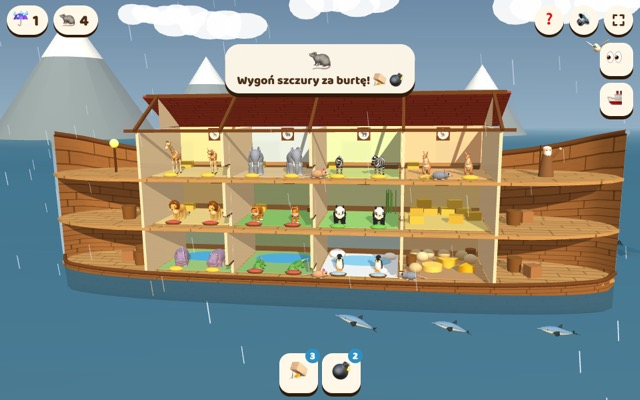
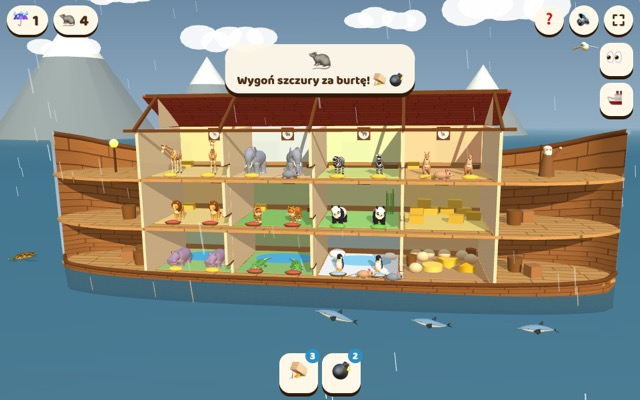
zwierzeta: jeden moduł ZOO dla pralni i arki
Arka miała kopię modeli z pralni różniącą się tylko skalą i polami stanu.
Teraz models/zwierzeta.js (samodzielny, własne helpery) — gotowy do
użycia też w taxi i żniwach, gdzie helpery mają te same nazwy.

diff --git a/models/zwierzeta.js b/models/zwierzeta.js
@@ -1,6 +1,48 @@
-// zwierzeta — wspólne dla: pralnia
-// wymaga z gry: FOOT, G, MV, PI, T, W, crScute, crTL, crTU, giMat, lgC, liTuft, liWh, mK, mW, mesh, texGir, texTig, texZeb, tiMat, whG, zeMat
+// Zwierzęta „słodziaki” (z Pralni Zoo) — samodzielny moduł z własnymi helperami, działa w każdej grze z three.js.
+// ZOO.MK.elephant() → a = {root, body, head, legs, ears, …} (głowa w +x); ZOO.anim(a, dt) animuje (a.moving = idzie).
+// ZOO.cfg: scale (skala wszystkich), cast (cienie; false = tylko bryły ciała).
+const ZOO = (() => {
 'use strict';
+const T=THREE,PI=Math.PI,cfg={scale:1,cast:true};
+const rnd=(a=1,b)=>b===undefined?Math.random()*a:a+Math.random()*(b-a);
+const pick=a=>a[Math.random()*a.length|0];
+const V=(x=0,y=0,z=0)=>new T.Vector3(x,y,z);
+function canvasTex(w,h,draw,o){o=o||{};try{const cv=document.createElement('canvas');cv.width=w;cv.height=h;const g=cv.getContext('2d');if(!g)return null;draw(g,w,h);const t=new T.CanvasTexture(cv);if(o.repeat){t.wrapS=t.wrapT=T.RepeatWrapping;t.repeat.set(o.repeat[0],o.repeat[1]);}t.anisotropy=4;return t;}catch(e){return null;}}
+function M(c,o){const k=c+(o?JSON.stringify(o):'');return mats[k]||(mats[k]=new T.MeshStandardMaterial(Object.assign({color:c,roughness:.78,metalness:0},o||{})));}
+function MT(tex,fallback,o){return new T.MeshStandardMaterial(Object.assign({color:tex?0xffffff:fallback,map:tex,roughness:.8},o||{}));}
+function cg(rt,rb,h,seg){seg=seg||14;const k=rt+','+rb+','+h+','+seg;return cgC[k]||(cgC[k]=new T.CylinderGeometry(rt,rb,h,seg));}
+const ball=(m,par,x,y,z,sx,sy,sz)=>mesh(G.sph,m,par,x,y,z,sx,sy,sz);
+const box=(m,par,x,y,z,sx,sy,sz)=>mesh(G.box,m,par,x,y,z,sx,sy,sz);
+function grp(par,x,y,z){const g=new T.Group();g.position.set(x||0,y||0,z||0);if(par)par.add(g);return g;}
+function merge(parts){const pos=[],nor=[],uv=[],m=new T.Matrix4(),q=new T.Quaternion(),e=new T.Euler(),nm=new T.Matrix3(),v=V();
+  for(const p of parts){const g=p.g.index?p.g.toNonIndexed():p.g;const r=p.r||[0,0,0];e.set(r[0],r[1],r[2]);q.setFromEuler(e);const s=p.s===undefined?[1,1,1]:(typeof p.s==='number'?[p.s,p.s,p.s]:p.s);const t=p.p||[0,0,0];
+    m.compose(V(t[0],t[1],t[2]),q,V(s[0],s[1],s[2]));nm.getNormalMatrix(m);const P=g.attributes.position,N=g.attributes.normal,U=g.attributes.uv;
+    for(let i=0;i<P.count;i++){v.fromBufferAttribute(P,i).applyMatrix4(m);pos.push(v.x,v.y,v.z);v.fromBufferAttribute(N,i).applyMatrix3(nm).normalize();nor.push(v.x,v.y,v.z);if(U)uv.push(U.getX(i),U.getY(i));else uv.push(0,0);}}
+  const out=new T.BufferGeometry();out.setAttribute('position',new T.Float32BufferAttribute(pos,3));out.setAttribute('normal',new T.Float32BufferAttribute(nor,3));out.setAttribute('uv',new T.Float32BufferAttribute(uv,2));return out;}
+function flat(key,pts,depth,bev,poly){if(lgC[key])return lgC[key];const sh=new T.Shape();sh.moveTo(pts[0][0],pts[0][1]);if(poly){for(let i=1;i<pts.length;i++)sh.lineTo(pts[i][0],pts[i][1]);sh.closePath();}else sh.splineThru(pts.slice(1).concat([pts[0]]).map(p=>new T.Vector2(p[0],p[1])));
+  const g=new T.ExtrudeGeometry(sh,{depth,bevelEnabled:!!bev,bevelThickness:bev||0,bevelSize:bev||0,bevelSegments:2,curveSegments:10});g.translate(0,0,-depth/2);return lgC[key]=g;}
+function mergeC(parts){const g=merge(parts),col=[];for(const p of parts){const n=p.g.index?p.g.index.count:p.g.attributes.position.count,c=new T.Color(p.c);for(let i=0;i<n;i++)col.push(c.r,c.g,c.b);}g.setAttribute('color',new T.Float32BufferAttribute(col,3));return g;}
+const mats={};
+const G={sph:new T.SphereGeometry(1,22,16),lo:new T.SphereGeometry(1,10,8),box:new T.BoxGeometry(1,1,1),cone:new T.ConeGeometry(1,1,14)};
+G.sphX=new T.SphereGeometry(1,22,16);G.sphX.rotateZ(PI/2);
+const cgC={};
+function mesh(g,m,par,x,y,z,sx,sy,sz){const o=new T.Mesh(g,m);o.position.set(x||0,y||0,z||0);if(sx!==undefined)o.scale.set(sx,sy===undefined?sx:sy,sz===undefined?sx:sz);o.castShadow=cfg.cast;if(par)par.add(o);return o;}
+const texGir=canvasTex(256,256,(g,w,h)=>{g.fillStyle='#f7e3b1';g.fillRect(0,0,w,h);g.fillStyle='#b8672a';for(let gy=0;gy<6;gy++)for(let gx=0;gx<6;gx++){const cx=(gx+.5+(gy%2?.5:0))*w/6+rnd(-5,5),cy=(gy+.5)*h/6+rnd(-5,5);g.beginPath();for(let i=0;i<7;i++){const an=i/7*6.283+rnd(-.25,.25),r=rnd(13,18);const px=cx+Math.cos(an)*r,py=cy+Math.sin(an)*r;i?g.lineTo(px,py):g.moveTo(px,py);}g.closePath();g.fill();}},{repeat:[1,1]});
+const texZeb=canvasTex(256,256,(g,w,h)=>{g.fillStyle='#fbfbfb';g.fillRect(0,0,w,h);g.fillStyle='#1d1d24';for(let i=0;i<8;i++){const y0=i*h/8;g.beginPath();g.moveTo(0,y0+3);for(let x=0;x<=w;x+=16)g.lineTo(x,y0+3+Math.sin(x/w*6.283*2+i)*4);for(let x=w;x>=0;x-=16)g.lineTo(x,y0+h/16+5+Math.sin(x/w*6.283*3+i*2)*3);g.closePath();g.fill();}},{repeat:[1,1]});
+const mW=M(0xffffff,{roughness:.3}),mK=M(0x16161d,{roughness:.3});
+const MV=new T.MeshStandardMaterial({vertexColors:true,roughness:.8});
+const lgC={};
+let giMat=null;
+let zeMat=null;
+let crScute=null,crTU=null,crTL=null;
+let liTuft=null,liWh=null;
+const texTig=canvasTex(256,256,(g,w,h)=>{g.fillStyle='#fff';g.fillRect(0,0,w,h);g.fillStyle='#1b1410';for(let i=0;i<9;i++){const y0=i*h/9;for(let k=0;k<3;k++){const x0=rnd(w),len=rnd(60,150),bend=rnd(-4,4);for(const off of [0,-w]){g.beginPath();g.moveTo(x0+off,y0+6);g.quadraticCurveTo(x0+off+len/2,y0-2+bend,x0+off+len,y0+7);g.quadraticCurveTo(x0+off+len/2,y0+16,x0+off,y0+6);g.fill();}}}},{repeat:[1,1]});
+const FOOT=[[-.15,0],[-.05,.14],[.2,.2],[.42,.17],[.24,.1],[.5,.05],[.28,0],[.5,-.05],[.24,-.1],[.42,-.17],[.2,-.2],[-.05,-.14]];
+let whG=null;
+let tiMat=null;
+const LEGS4=(fx,bx,z)=>[[fx,z,0],[fx,-z,PI],[bx,z,PI],[bx,-z,0]];
+function legs(a,b,pos,y,build){for(const [x,z,ph] of pos){const p=grp(b,x,y,z);build(p,Math.sign(z),x>0);a.legs.push({p,ph});}}
+
 function loft(key,secs,top,belly,o){if(lgC[key])return lgC[key];o=o||{};const sub=o.sub||4,seg=o.seg||16,n=secs.length,us=o.uvs||[1,1];
   const val=(s,j)=>j===4?(s[4]===undefined?s[2]:s[4]):s[j];
   const cr=(a,b,c,d,t)=>.5*(2*b+(c-a)*t+(2*a-5*b+4*c-d)*t*t+(3*b-a-3*c+d)*t*t*t);
@@ -16,12 +58,12 @@ function loft(key,secs,top,belly,o){if(lgC[key])return lgC[key];o=o||{};const su
   const g=new T.BufferGeometry();g.setAttribute('position',new T.Float32BufferAttribute(pos,3));g.setAttribute('uv',new T.Float32BufferAttribute(uv,2));g.setAttribute('color',new T.Float32BufferAttribute(col,3));g.setIndex(idx);g.computeVertexNormals();
   const nn=g.attributes.normal;for(let i=0;i<N;i++){const a=i*R,b=a+seg,x=nn.getX(a)+nn.getX(b),y=nn.getY(a)+nn.getY(b),z=nn.getZ(a)+nn.getZ(b),l=Math.hypot(x,y,z)||1;nn.setXYZ(a,x/l,y/l,z/l);nn.setXYZ(b,x/l,y/l,z/l);}
   return lgC[key]=g;}
-function base(type){const root=new T.Group(),body=grp(root);return {type,root,body,legs:[],ears:[],eyes:[],trunk:[],ctail:[],spots:[],t:rnd(10),ph:0,seed:rnd(6),gait:9,swing:.45,jumpT:0,tickle:0,blown:0,blowT:0,open:0,blink:rnd(1,4),patience:1,state:'new',st:-1,done:0,hatPop:1,headBase:0};}
+function base(type){const root=new T.Group(),body=grp(root);return {type,root,body,legs:[],ears:[],eyes:[],trunk:[],ctail:[],spots:[],t:rnd(10),ph:0,seed:rnd(6),gait:9,swing:.45,jumpT:0,tickle:0,blown:0,blowT:0,open:0,blink:rnd(1,4),patience:1,state:'new',st:-1,done:0,hatPop:1,headBase:0,moving:false,eat:false,eatK:0,lookA:.12};}
 function eye(a,par,x,y,z,r,o){o=o||{};const s=Math.sign(z)||1,g=grp(par,x,y,z);ball(o.col?M(o.col,{roughness:.3}):mW,g,0,0,0,r);const pz=s*r*.55,px=r*.5;
   if(o.slit)box(mK,g,px*1.3,0,pz*1.25,r*.3,r*1.3,r*.45);else{ball(mK,g,px,0,pz,r*.62);ball(mW,g,px+r*.32,r*.3,pz+s*r*.36,r*.2);}
   if(o.lash)for(let i=0;i<3;i++){const l=mesh(cg(.014,.014,r*1.1,5),mK,g,-r*.25+i*r*.45,r*1.05,s*r*.55);l.rotation.z=.5-i*.5;l.rotation.x=s*.5;}
   g.traverse(q=>{q.userData.nd=1;});a.eyes.push(g);return g;}
-function finish(a,s){a.root.scale.setScalar(s);a.root.updateMatrixWorld(true);const b=new T.Box3().setFromObject(a.root);a.dims={x0:b.min.x,x1:b.max.x,h:b.max.y,hw:b.max.z,len:b.max.x-b.min.x};a.cx=(b.min.x+b.max.x)/2;a.hit=[];a.root.traverse(o=>{if(o.isMesh&&!o.userData.nd)a.hit.push(o);});return a;}
+function finish(a,s){a.root.scale.setScalar(s*cfg.scale);a.root.updateMatrixWorld(true);const b=new T.Box3().setFromObject(a.root);a.dims={x0:b.min.x,x1:b.max.x,h:b.max.y,hw:b.max.z,len:b.max.x-b.min.x};a.cx=(b.min.x+b.max.x)/2;a.hit=[];a.root.traverse(o=>{if(!o.isMesh)return;if(!o.userData.nd)a.hit.push(o);if(!cfg.cast)o.castShadow=!!o.material.vertexColors;});return a;}
 function mkElephant(){const a=base('elephant'),C=0x93a0b8,Cb=0xaab6ca,sk=M(C,{roughness:.8}),dk=M(0x7b88a0),pk=M(0xf0b3c0),nl=M(0xe6ebf2),b=a.body;
   mesh(loft('elB',[[-1.95,2.15,.05,.05],[-1.8,2.2,.75,.7],[-1.2,2.3,1.05,1.0,1.1],[-.3,2.3,1.1,1.1,1.25],[.6,2.35,1.1,1.05,1.15],[1.2,2.45,.95,.9,.95],[1.6,2.5,.6,.6],[1.75,2.5,.05,.05]],C,Cb),MV,b);
   const lg=loft('elL',[[0,.3,.05,.05],[0,.1,.5,.45],[0,-.5,.42,.4],[0,-1.0,.36,.36],[0,-1.4,.4,.4],[0,-1.58,.44,.44],[0,-1.62,.05,.05]],C);
@@ -143,3 +185,22 @@ function mkKangaroo(){const a=base('kangaroo'),C=0xc98a55,Cl=0xf3dcc0,tn=M(C,{ro
   const eg=flat('kaE',[[0,0],[.14,.25],[.04,.6],[-.12,.28]],.05,.02);
   for(const s of [1,-1]){const e=grp(h,-.12,.26,s*.17);e.rotation.x=s*.3;mesh(eg,tn,e);mesh(eg,lt,e,.02,.03,-s*.02,.6,.7,.6);a.ears.push({p:e,base:0,bx:s*.3,s,ax:'x',fast:5});eye(a,h,.2,.12,s*.22,.08,{lash:1});}
   a.hopH=.4;a.hat=grp(h,-.02,.4,0);a.hatS=.6;a.gait=7;a.swing=.3;return finish(a,.85);}
+
+// Wspólna animacja: nogi (a.moving), oddech, ogon, uszy, głowa, mruganie, pysk, trąba. a.eat: skubie trawę; a.blowT: suszarka; a.state 'work'/'done': myjnia
+function anim(a,dt){a.t+=dt;const walk=a.moving&&!a.slide;if(walk)a.ph+=dt*a.gait;
+  for(const L of a.legs){const tg=walk?Math.sin(a.ph+L.ph)*a.swing:0;L.p.rotation.z+=(tg-L.p.rotation.z)*Math.min(1,dt*14);}
+  a.tickle=Math.max(0,a.tickle-dt*2.5);a.blowT-=dt;a.blown+=((a.blowT>0?1:0)-a.blown)*Math.min(1,dt*5);
+  let y=walk?Math.abs(Math.sin(a.ph))*(a.hopH||.05):Math.sin(a.t*2.2)*.015;const happy=a.jumpT>0;if(happy){a.jumpT-=dt*1.1;y+=Math.abs(Math.sin(a.jumpT*PI*2))*.5;}
+  a.body.position.y=y;a.body.rotation.x=Math.sin(a.t*28)*.035*a.tickle+a.blown*.06+(walk&&a.waddle?Math.sin(a.ph)*a.waddle:0);a.body.rotation.z=Math.sin(a.t*23)*.02*a.tickle;
+  const wag=(a.state==='done'||happy)?2.2:1;if(a.tail)a.tail.rotation.x=Math.sin(a.t*5*wag+a.seed)*.35*wag+a.blown*Math.sin(a.t*30)*.5;
+  for(const e of a.ears){const f=Math.sin(a.t*(e.fast||3)+a.seed+e.s)*.12+a.blown*Math.sin(a.t*26+e.s)*.4+a.tickle*.2;if(e.ax==='x')e.p.rotation.x=(e.bx||0)+e.s*f*1.2;else e.p.rotation.y=e.base+e.s*f;}
+  a.eatK+=((a.eat&&!walk&&!happy?1:0)-a.eatK)*Math.min(1,dt*3);const ek=a.eatK*(.75+.25*Math.sin(a.t*5+a.seed));
+  if(a.head){a.head.rotation.z=a.headBase+Math.sin(a.t*1.3+a.seed)*.04+(happy?.15:0)-ek*(a.neck?.25:.45);const look=a.state==='work'?-.28:0;a.head.rotation.y+=(look+Math.sin(a.t*.7+a.seed)*a.lookA-a.head.rotation.y)*Math.min(1,dt*4);a.head.rotation.x=Math.sin(a.t*25)*.05*a.tickle;}
+  if(a.neck)a.neck.rotation.z=a.neckBase+Math.sin(a.t*.9+a.seed)*.04+a.blown*.08-ek*(a.type==='giraffe'?1.05:.55);
+  a.blink-=dt;if(a.blink<-.12)a.blink=rnd(2,5);const by=(a.blink<0||a.tickle>.6)?.15:1;for(const e of a.eyes)e.scale.y=by;
+  const op=happy?1:(a.tickle>.3?.6:(Math.sin(a.t*.5+a.seed)>.93?.8:0));a.open+=(op-a.open)*Math.min(1,dt*8);if(a.jaw)a.jaw.rotation.z=-a.open*.55;
+  for(let i=0;i<a.trunk.length;i++){const g=a.trunk[i],lift=happy?(i===0?.5:i<5?.38:.1):0;g.rotation.z+=(g.userData.b+lift+Math.sin(a.t*1.8+i*.5)*.05+a.tickle*Math.sin(a.t*20+i)*.04-g.rotation.z)*Math.min(1,dt*8);}
+  for(let i=0;i<a.ctail.length;i++)a.ctail[i].rotation.y=Math.sin(a.t*2.2-i*.6)*.13*(walk?1.6:1)*(happy?2:1);}
+const MK={elephant:mkElephant,giraffe:mkGiraffe,zebra:mkZebra,hippo:mkHippo,crocodile:mkCroc,lion:mkLion,tiger:mkTiger,panda:mkPanda,penguin:mkPenguin,kangaroo:mkKangaroo};
+return {cfg,MK,anim,rnd,pick,V,canvasTex,M,MT,cg,G,mesh,ball,box,grp,merge,flat,mergeC,mW,mK,MV,texGir,texZeb,texTig};
+})();

diff --git a/arka/game.js b/arka/game.js
@@ -1,5 +1,8 @@
 'use strict';
 const T=THREE,$=id=>document.getElementById(id);
+// zwierzęta i helpery 3D: models/zwierzeta.js (arka: mniejsze, cienie tylko brył ciała)
+const {rnd,pick,V,canvasTex,M,MT,cg,G,mesh,ball,box,grp,merge,flat,mergeC,mW,mK,MV,MK}=ZOO;
+ZOO.cfg.scale=.78;ZOO.cfg.cast=false;
 
 const PI=Math.PI;
 let W=innerWidth,H=innerHeight;
@@ -17,18 +20,10 @@ const skyTex=cols=>canvasTex(8,256,(g,w,h)=>{const gr=g.createLinearGradient(0,0
 const SKY={sun:skyTex(['#3fa9ea','#9adcf8','#e8f8ff']),rain:skyTex(['#6d8ba6','#a9c3d3','#d5e3ea'])};
 
 /* ---------- geometry & material helpers ---------- */
-const mats={};
-
-const G={sph:new T.SphereGeometry(1,22,16),lo:new T.SphereGeometry(1,10,8),box:new T.BoxGeometry(1,1,1),cone:new T.ConeGeometry(1,1,14)};
-const cgC={};
-function mesh(g,m,par,x,y,z,sx,sy,sz){const o=new T.Mesh(g,m);o.position.set(x||0,y||0,z||0);if(sx!==undefined)o.scale.set(sx,sy===undefined?sx:sy,sz===undefined?sx:sz);if(par)par.add(o);return o;}
 
 const MVC=new T.MeshStandardMaterial({vertexColors:true,roughness:.8});
 
 /* ---------- textures ---------- */
-const texGir=canvasTex(256,256,(g,w,h)=>{g.fillStyle='#f7e3b1';g.fillRect(0,0,w,h);g.fillStyle='#b8672a';for(let gy=0;gy<6;gy++)for(let gx=0;gx<6;gx++){const cx=(gx+.5+(gy%2?.5:0))*w/6+rnd(-5,5),cy=(gy+.5)*h/6+rnd(-5,5);g.beginPath();for(let i=0;i<7;i++){const an=i/7*6.283+rnd(-.25,.25),r=rnd(13,18);const px=cx+Math.cos(an)*r,py=cy+Math.sin(an)*r;i?g.lineTo(px,py):g.moveTo(px,py);}g.closePath();g.fill();}},{repeat:[1,1]});
-const texZeb=canvasTex(256,256,(g,w,h)=>{g.fillStyle='#fbfbfb';g.fillRect(0,0,w,h);g.fillStyle='#1d1d24';for(let i=0;i<8;i++){const y0=i*h/8;g.beginPath();g.moveTo(0,y0+3);for(let x=0;x<=w;x+=16)g.lineTo(x,y0+3+Math.sin(x/w*6.283*2+i)*4);for(let x=w;x>=0;x-=16)g.lineTo(x,y0+h/16+5+Math.sin(x/w*6.283*3+i*2)*3);g.closePath();g.fill();}},{repeat:[1,1]});
-const texTig=canvasTex(256,256,(g,w,h)=>{g.fillStyle='#fff';g.fillRect(0,0,w,h);g.fillStyle='#1b1410';for(let i=0;i<9;i++){const y0=i*h/9;for(let k=0;k<3;k++){const x0=rnd(w),len=rnd(60,150),bend=rnd(-4,4);for(const off of [0,-w]){g.beginPath();g.moveTo(x0+off,y0+6);g.quadraticCurveTo(x0+off+len/2,y0-2+bend,x0+off+len,y0+7);g.quadraticCurveTo(x0+off+len/2,y0+16,x0+off,y0+6);g.fill();}}}},{repeat:[1,1]});
 const plankTex=(base,line,rep)=>canvasTex(256,256,(g,w,h)=>{g.fillStyle=base;g.fillRect(0,0,w,h);for(let i=0;i<8;i++){g.fillStyle='rgba(60,30,5,'+rnd(.02,.14)+')';g.fillRect(0,i*32,w,32);g.fillStyle=line;g.fillRect(0,i*32,w,3);const x=rnd(w);g.fillRect(x,i*32,3,32);g.fillRect((x+130)%w,i*32,3,32);}for(let i=0;i<60;i++){g.fillStyle='rgba(50,25,5,.12)';g.fillRect(rnd(w),rnd(h),rnd(20,60),1.5);}},{repeat:rep});
 const emojiTex=(em,bg)=>canvasTex(128,128,(g)=>{g.fillStyle=bg;g.beginPath();g.arc(64,64,62,0,7);g.fill();g.lineWidth=7;g.strokeStyle='#fff';g.stroke();g.textAlign='center';g.textBaseline='middle';g.font='74px serif';g.fillText(em,64,70);});
 
@@ -107,39 +102,13 @@ function startMusic(){const step=60/104/3;let nt=AC.currentTime+.1,i=0;
       i++;nt+=step;}},120);}
 
 /* ---------- animals (models from Pralnia Zoo) ---------- */
-const mW=M(0xffffff,{roughness:.3}),mK=M(0x16161d,{roughness:.3});
-const MV=new T.MeshStandardMaterial({vertexColors:true,roughness:.8});
-const lgC={};
 
-const SC=.78;
-
-let giMat=null;
-
-let zeMat=null;
-
-let crScute=null,crTU=null,crTL=null;
-
-let liTuft=null,liWh=null;
-
-let whG=null;
-const FOOT=[[-.15,0],[-.05,.14],[.2,.2],[.42,.17],[.24,.1],[.5,.05],[.28,0],[.5,-.05],[.24,-.1],[.42,-.17],[.2,-.2],[-.05,-.14]];
-let tiMat=null;
-
-const MK={elephant:mkElephant,giraffe:mkGiraffe,zebra:mkZebra,hippo:mkHippo,crocodile:mkCroc,lion:mkLion,tiger:mkTiger,panda:mkPanda,penguin:mkPenguin,kangaroo:mkKangaroo};
-function anim(a,dt){a.t+=dt;const walk=a.moving;if(walk)a.ph+=dt*a.gait;
-  for(const L of a.legs){const tg=walk?Math.sin(a.ph+L.ph)*a.swing:0;L.p.rotation.z+=(tg-L.p.rotation.z)*Math.min(1,dt*14);}
-  a.tickle=Math.max(0,a.tickle-dt*2.5);
-  let y=walk?Math.abs(Math.sin(a.ph))*(a.hopH||.05):Math.sin(a.t*2.2)*.015;const happy=a.jumpT>0;if(happy){a.jumpT-=dt*1.1;y+=Math.abs(Math.sin(a.jumpT*PI*2))*.5;}
-  a.body.position.y=y;a.body.rotation.x=Math.sin(a.t*28)*.035*a.tickle+(walk&&a.waddle?Math.sin(a.ph)*a.waddle:0);a.body.rotation.z=Math.sin(a.t*23)*.02*a.tickle;
-  const wag=happy?2.2:1;if(a.tail)a.tail.rotation.x=Math.sin(a.t*5*wag+a.seed)*.35*wag;
-  for(const e of a.ears){const f=Math.sin(a.t*(e.fast||3)+a.seed+e.s)*.12+a.tickle*.2;if(e.ax==='x')e.p.rotation.x=(e.bx||0)+e.s*f*1.2;else e.p.rotation.y=e.base+e.s*f;}
-  a.eatK+=((a.eat&&!walk&&!happy?1:0)-a.eatK)*Math.min(1,dt*3);const ek=a.eatK*(.75+.25*Math.sin(a.t*5+a.seed));
-  if(a.head){a.head.rotation.z=a.headBase+Math.sin(a.t*1.3+a.seed)*.04+(happy?.15:0)-ek*(a.neck?.25:.45);a.head.rotation.y+=(Math.sin(a.t*.7+a.seed)*.25-a.head.rotation.y)*Math.min(1,dt*4);a.head.rotation.x=Math.sin(a.t*25)*.05*a.tickle;}
-  if(a.neck)a.neck.rotation.z=a.neckBase+Math.sin(a.t*.9+a.seed)*.04-ek*(a.type==='giraffe'?1.05:.55);
-  a.blink-=dt;if(a.blink<-.12)a.blink=rnd(2,5);const by=(a.blink<0||a.tickle>.6)?.15:1;for(const e of a.eyes)e.scale.y=by;
-  const op=happy?1:(a.tickle>.3?.6:(Math.sin(a.t*.5+a.seed)>.93?.8:0));a.open+=(op-a.open)*Math.min(1,dt*8);if(a.jaw)a.jaw.rotation.z=-a.open*.55;
-  for(let i=0;i<a.trunk.length;i++){const g=a.trunk[i],lift=happy?(i===0?.5:i<5?.38:.1):0;g.rotation.z+=(g.userData.b+lift+Math.sin(a.t*1.8+i*.5)*.05+a.tickle*Math.sin(a.t*20+i)*.04-g.rotation.z)*Math.min(1,dt*8);}
-  for(let i=0;i<a.ctail.length;i++)a.ctail[i].rotation.y=Math.sin(a.t*2.2-i*.6)*.13*(walk?1.6:1)*(happy?2:1);}
+const anim=ZOO.anim;
+// szczur (tylko arka): kolorowana bryła z kul i stożków
+function ratGeo(body,snout,bow){const p=[{g:G.lo,p:[0,.36,0],s:[.58,.36,.36],c:body},{g:G.lo,p:[.56,.42,0],s:[.31,.28,.27],c:body},{g:G.cone,p:[.9,.38,0],s:[.15,.3,.15],r:[0,0,-PI/2],c:snout},{g:G.lo,p:[1.06,.38,0],s:.07,c:0xff6f91},{g:cg(.045,.02,1,5),p:[-.95,.3,0],r:[0,0,PI/2+.25],c:PINK}];
+  for(const s of [1,-1]){p.push({g:G.lo,p:[.46,.7,s*.22],s:[.06,.19,.19],c:PINK},{g:G.lo,p:[.74,.52,s*.18],s:.06,c:0x111111},{g:G.lo,p:[.3,.07,s*.24],s:[.13,.07,.09],c:PINK},{g:G.lo,p:[-.3,.07,s*.24],s:[.13,.07,.09],c:PINK});
+    if(bow)p.push({g:G.cone,p:[.5,.78,s*.12],s:[.13,.24,.1],r:[s*PI/2,0,0],c:0xff3d8b});}
+  return mergeC(p);}
 
 /* ---------- layout: side cross-section, 3 floors x 4 rooms ---------- */
 const NF=3,NR=4,RW=9,RH=5.2,NC=24,CW=1.5,X0=-18,LZ=4.6,WATER=-.7;
@@ -234,7 +203,7 @@ function buildWorld(){
       else if(type==='hay'){for(const q of [[-2.8,-4,0],[-1.2,-4.1,0],[-2,-4,1],[2.4,-3.8,0],[3.2,-1.6,0],[.6,-4.2,0],[-3,.8,0],[1.2,.2,0],[1.4,-4,1]])fp.push({g:G.box,p:[x+q[0],y+.5+q[2]*.9,q[1]],s:[1.5,.9,1],r:[0,rnd(-.2,.2),0],c:pick([0xe9c84c,0xdcb93e])});}
       else{fp.push({g:G.box,p:[x+3.2,y+.3,-4.6],s:[1.6,.5,.7],c:0x8a5a2b});fp.push({g:G.box,p:[x+3.2,y+.52,-4.6],s:[1.4,.1,.5],c:0x5cc6ff});fp.push({g:G.box,p:[x-3.3,y+.45,-4.5],s:[1.3,.8,.9],c:0xe9c84c});}
       const tx=emojiTex(PEN_EM[type],'#fff8e8');mesh(new T.CircleGeometry(.62,24),new T.MeshBasicMaterial({map:tx,color:tx?0xffffff:0xffd23f}),ark,x,y+h-.9,-5.3);fp.push({g:G.box,p:[x,y+h-.9,-5.36],s:[1.5,1.5,.08],c:0x6e4220});
-      if(MK[type])for(const s of [-1,1]){const a=MK[type]();a.room=room;a.hx=x+s*2.1;a.hz=-1.2;a.root.position.set(a.hx,y+.08,FEEDZ);a.face=-PI/2+rnd(-.35,.35);a.root.rotation.y=a.face;{const ft=type==='lion'||type==='tiger'||type==='crocodile'?0xc8554d:type==='penguin'?0x9fc4dc:type==='panda'?0x6fbf55:0xe9c84c;fp.push({g:G.lo,p:[a.hx,y+.12,3.25],s:[.85,.3,.5],c:ft});if(ft!==0xe9c84c&&ft!==0x6fbf55)fp.push({g:cg(.95,.8,.2,14),p:[a.hx,y+.1,3.25],s:[1,1,.62],c:0x8a5a2b});}a.tx=a.root.position.x;a.tz=a.root.position.z;ark.add(a.root);room.animals.push(a);zoo.push(a);}
+      if(MK[type])for(const s of [-1,1]){const a=Object.assign(MK[type](),{eat:true,wt:rnd(3,9),lookA:.25});a.room=room;a.hx=x+s*2.1;a.hz=-1.2;a.root.position.set(a.hx,y+.08,FEEDZ);a.face=-PI/2+rnd(-.35,.35);a.root.rotation.y=a.face;{const ft=type==='lion'||type==='tiger'||type==='crocodile'?0xc8554d:type==='penguin'?0x9fc4dc:type==='panda'?0x6fbf55:0xe9c84c;fp.push({g:G.lo,p:[a.hx,y+.12,3.25],s:[.85,.3,.5],c:ft});if(ft!==0xe9c84c&&ft!==0x6fbf55)fp.push({g:cg(.95,.8,.2,14),p:[a.hx,y+.1,3.25],s:[1,1,.62],c:0x8a5a2b});}a.tx=a.root.position.x;a.tz=a.root.position.z;ark.add(a.root);room.animals.push(a);zoo.push(a);}
     }}
   // end compartments + decks
   for(const q of [[-21.5,0,-1],[-20.5,0,1.5],[21,0,-.5],[20.6,RH,0],[-20.8,RH,-1.2],[-21.8,RH,1]])fp.push({g:cg(.8,.7,1.5,12),p:[q[0],q[1]+.75,q[2]],c:0x8a5a2b});

diff --git a/pralnia/game.js b/pralnia/game.js
@@ -1,5 +1,7 @@
 'use strict';
 const T=THREE,$=id=>document.getElementById(id);
+// zwierzęta i helpery 3D: models/zwierzeta.js
+const {rnd,pick,V,canvasTex,M,MT,cg,G,mesh,ball,box,grp,merge,flat,mergeC,mW,mK,MV,MK}=ZOO;
 
 const PI=Math.PI;
 let W=innerWidth,H=innerHeight;
@@ -18,16 +20,8 @@ const camT=new T.PerspectiveCamera(42,1,.5,420);
 scene.background=canvasTex(8,256,(g,w,h)=>{const gr=g.createLinearGradient(0,0,0,h);gr.addColorStop(0,'#4fb7ec');gr.addColorStop(.55,'#a8e4fa');gr.addColorStop(1,'#e6f9ff');g.fillStyle=gr;g.fillRect(0,0,w,h);})||new T.Color(0x9fe3f5);
 
 /* ---------- geometry & material helpers ---------- */
-const mats={};
-
-const G={sph:new T.SphereGeometry(1,22,16),lo:new T.SphereGeometry(1,10,8),box:new T.BoxGeometry(1,1,1),cone:new T.ConeGeometry(1,1,14)};
-G.sphX=new T.SphereGeometry(1,22,16);G.sphX.rotateZ(PI/2);
-const cgC={};
-function mesh(g,m,par,x,y,z,sx,sy,sz){const o=new T.Mesh(g,m);o.position.set(x||0,y||0,z||0);if(sx!==undefined)o.scale.set(sx,sy===undefined?sx:sy,sz===undefined?sx:sz);o.castShadow=true;if(par)par.add(o);return o;}
 
 /* ---------- textures ---------- */
-const texGir=canvasTex(256,256,(g,w,h)=>{g.fillStyle='#f7e3b1';g.fillRect(0,0,w,h);g.fillStyle='#b8672a';for(let gy=0;gy<6;gy++)for(let gx=0;gx<6;gx++){const cx=(gx+.5+(gy%2?.5:0))*w/6+rnd(-5,5),cy=(gy+.5)*h/6+rnd(-5,5);g.beginPath();for(let i=0;i<7;i++){const an=i/7*6.283+rnd(-.25,.25),r=rnd(13,18);const px=cx+Math.cos(an)*r,py=cy+Math.sin(an)*r;i?g.lineTo(px,py):g.moveTo(px,py);}g.closePath();g.fill();}},{repeat:[1,1]});
-const texZeb=canvasTex(256,256,(g,w,h)=>{g.fillStyle='#fbfbfb';g.fillRect(0,0,w,h);g.fillStyle='#1d1d24';for(let i=0;i<8;i++){const y0=i*h/8;g.beginPath();g.moveTo(0,y0+3);for(let x=0;x<=w;x+=16)g.lineTo(x,y0+3+Math.sin(x/w*6.283*2+i)*4);for(let x=w;x>=0;x-=16)g.lineTo(x,y0+h/16+5+Math.sin(x/w*6.283*3+i*2)*3);g.closePath();g.fill();}},{repeat:[1,1]});
 const texCroc=canvasTex(128,128,(g,w,h)=>{g.fillStyle='#63b04d';g.fillRect(0,0,w,h);g.strokeStyle='#4a9340';g.lineWidth=2;for(let y=0;y<9;y++)for(let x=0;x<9;x++){g.beginPath();g.arc(x*16+(y%2?8:0),y*16,7,0,PI);g.stroke();}},{repeat:[4,2]});
 const tileTex=(rx,ry)=>canvasTex(64,64,(g)=>{g.fillStyle='#ffffff';g.fillRect(0,0,64,64);g.fillStyle='#eef4f7';g.fillRect(3,3,58,58);g.strokeStyle='#c4d3dc';g.lineWidth=3;g.strokeRect(0,0,64,64);},{repeat:[rx,ry]});
 const stripeTex=(n)=>canvasTex(64,64,(g)=>{g.fillStyle='#fff';g.fillRect(0,0,64,64);g.fillStyle='#b8b8b8';g.fillRect(0,0,32,64);},{repeat:[n,1]});
@@ -102,27 +96,7 @@ function startMusic(){const step=60/116/2;let nt=AC.currentTime+.1,i=0;
       i++;nt+=step;}},120);}
 
 /* ---------- animals ---------- */
-const mW=M(0xffffff,{roughness:.3}),mK=M(0x16161d,{roughness:.3});
-const MV=new T.MeshStandardMaterial({vertexColors:true,roughness:.8});
-const lgC={};
-// smooth "lofted" body part: sections [x,y,rTop,rSide,rBottom] along a spine in the XY plane
 
-// flat outline (ears, manes) with soft edges
-
-let giMat=null;
-
-let zeMat=null;
-
-let crScute=null,crTU=null,crTL=null;
-
-let liTuft=null,liWh=null;
-
-const texTig=canvasTex(256,256,(g,w,h)=>{g.fillStyle='#fff';g.fillRect(0,0,w,h);g.fillStyle='#1b1410';for(let i=0;i<9;i++){const y0=i*h/9;for(let k=0;k<3;k++){const x0=rnd(w),len=rnd(60,150),bend=rnd(-4,4);for(const off of [0,-w]){g.beginPath();g.moveTo(x0+off,y0+6);g.quadraticCurveTo(x0+off+len/2,y0-2+bend,x0+off+len,y0+7);g.quadraticCurveTo(x0+off+len/2,y0+16,x0+off,y0+6);g.fill();}}}},{repeat:[1,1]});
-const FOOT=[[-.15,0],[-.05,.14],[.2,.2],[.42,.17],[.24,.1],[.5,.05],[.28,0],[.5,-.05],[.24,-.1],[.42,-.17],[.2,-.2],[-.05,-.14]];
-let whG=null;
-let tiMat=null;
-
-const MK={elephant:mkElephant,giraffe:mkGiraffe,zebra:mkZebra,hippo:mkHippo,crocodile:mkCroc,lion:mkLion,tiger:mkTiger,panda:mkPanda,penguin:mkPenguin,kangaroo:mkKangaroo};
 const TYPES=Object.keys(MK),VAL={elephant:6,giraffe:6,hippo:5,zebra:4,lion:4,crocodile:4,tiger:5,panda:5,penguin:3,kangaroo:5},NSP={elephant:10,giraffe:9,hippo:9,zebra:8,lion:8,crocodile:7,tiger:8,panda:8,penguin:6,kangaroo:8};
 
 /* ---------- spots (flat dirt, drops, stars) ---------- */
@@ -325,19 +299,8 @@ function machine(st,a,run,dt){const len=a?a.dims.len:4,hw=a?a.dims.hw:1.6,hh=a?a
       if(run&&Math.random()<dt*14){ar.tool.getWorldPosition(tv);if(s>0)P.puff.add(tv.x,tv.y,tv.z,rnd(-2.5,-.5),rnd(-1,.5),rnd(.5,2),rnd(.2,.35),.8,0);else P.spark.add(tv.x,tv.y,tv.z,rnd(-1,1),rnd(.5,2),rnd(-1,1),.09,.5,-3);}}
     if(run){a.tickle=Math.max(a.tickle,.3);if(Math.random()<dt*10)P.spark.add(st.x+rnd(-len/2,len/2),rnd(.5,hh+.5),rnd(-hw,hw+.3),0,rnd(.3,1.2),0,.1,.7,0);}}
 }
-function anim(a,dt){a.t+=dt;const walk=a.moving&&!a.slide;if(walk)a.ph+=dt*a.gait;
-  for(const L of a.legs){const tg=walk?Math.sin(a.ph+L.ph)*a.swing:0;L.p.rotation.z+=(tg-L.p.rotation.z)*Math.min(1,dt*14);}
-  a.tickle=Math.max(0,a.tickle-dt*2.5);a.blowT-=dt;a.blown+=((a.blowT>0?1:0)-a.blown)*Math.min(1,dt*5);
-  let y=walk?Math.abs(Math.sin(a.ph))*(a.hopH||.05):Math.sin(a.t*2.2)*.015;const happy=a.jumpT>0;if(happy){a.jumpT-=dt*1.1;y+=Math.abs(Math.sin(a.jumpT*PI*2))*.5;}
-  a.body.position.y=y;a.body.rotation.x=Math.sin(a.t*28)*.035*a.tickle+a.blown*.06+(walk&&a.waddle?Math.sin(a.ph)*a.waddle:0);a.body.rotation.z=Math.sin(a.t*23)*.02*a.tickle;
-  const wag=(a.state==='done'||happy)?2.2:1;if(a.tail)a.tail.rotation.x=Math.sin(a.t*5*wag+a.seed)*.35*wag+a.blown*Math.sin(a.t*30)*.5;
-  for(const e of a.ears){const f=Math.sin(a.t*(e.fast||3)+a.seed+e.s)*.12+a.blown*Math.sin(a.t*26+e.s)*.4+a.tickle*.2;if(e.ax==='x')e.p.rotation.x=(e.bx||0)+e.s*f*1.2;else e.p.rotation.y=e.base+e.s*f;}
-  if(a.head){a.head.rotation.z=a.headBase+Math.sin(a.t*1.3+a.seed)*.04+(happy?.15:0);const look=a.state==='work'?-.28:0;a.head.rotation.y+=(look+Math.sin(a.t*.7+a.seed)*.12-a.head.rotation.y)*Math.min(1,dt*4);a.head.rotation.x=Math.sin(a.t*25)*.05*a.tickle;}
-  if(a.neck)a.neck.rotation.z=a.neckBase+Math.sin(a.t*.9+a.seed)*.04+a.blown*.08;
-  a.blink-=dt;if(a.blink<-.12)a.blink=rnd(2,5);const by=(a.blink<0||a.tickle>.6)?.15:1;for(const e of a.eyes)e.scale.y=by;
-  const op=happy?1:(a.tickle>.3?.6:(Math.sin(a.t*.5+a.seed)>.93?.8:0));a.open+=(op-a.open)*Math.min(1,dt*8);if(a.jaw)a.jaw.rotation.z=-a.open*.55;
-  for(let i=0;i<a.trunk.length;i++){const g=a.trunk[i],lift=happy?(i===0?.5:i<5?.38:.1):0;g.rotation.z+=(g.userData.b+lift+Math.sin(a.t*1.8+i*.5)*.05+a.tickle*Math.sin(a.t*20+i)*.04-g.rotation.z)*Math.min(1,dt*8);}
-  for(let i=0;i<a.ctail.length;i++)a.ctail[i].rotation.y=Math.sin(a.t*2.2-i*.6)*.13*(walk?1.6:1)*(happy?2:1);
+// wspólna animacja (ZOO) + pralnia: muchy, czapka, kapiąca woda
+function anim(a,dt){ZOO.anim(a,dt);
   if(a.flies){const c=a.flies.children;for(let i=0;i<c.length;i++){const an=a.t*(3+i)+i*2;c[i].position.set(Math.cos(an)*(.7+i*.25),Math.sin(an*1.7)*.3,Math.sin(an)*(.5+i*.2));}}
   if(a.hatM&&a.hatPop<1){a.hatPop=Math.min(1,a.hatPop+dt*2.5);a.hatM.scale.setScalar(a.hatS*(1+Math.sin(a.hatPop*PI)*.6)*Math.min(1,a.hatPop*3));}
   if(a.wet&&Math.random()<dt*7)P.water.add(a.root.position.x+rnd(a.dims.x0,a.dims.x1),rnd(.4,a.dims.h*.7),rnd(-a.dims.hw,a.dims.hw),0,0,0,.07,.5,-9,[1,1.6,1]);

diff --git a/lib/pralnia-arka.js b/lib/pralnia-arka.js
@@ -1,28 +1,6 @@
 // silnik — wspólne dla: pralnia, arka
-// wymaga z gry: AC, G, P, T, cgC, lgC, mats, mesh, mus, nbuf, sfx
+// wymaga z gry: AC, mus, nbuf, sfx (helpery 3D: models/zwierzeta.js)
 'use strict';
-
-// --- util
-const rnd=(a=1,b)=>b===undefined?Math.random()*a:a+Math.random()*(b-a);
-const pick=a=>a[Math.random()*a.length|0];
-const V=(x=0,y=0,z=0)=>new T.Vector3(x,y,z);
-
-// --- three
-function canvasTex(w,h,draw,o){o=o||{};try{const cv=document.createElement('canvas');cv.width=w;cv.height=h;const g=cv.getContext('2d');if(!g)return null;draw(g,w,h);const t=new T.CanvasTexture(cv);if(o.repeat){t.wrapS=t.wrapT=T.RepeatWrapping;t.repeat.set(o.repeat[0],o.repeat[1]);}t.anisotropy=4;return t;}catch(e){return null;}}
-function M(c,o){const k=c+(o?JSON.stringify(o):'');return mats[k]||(mats[k]=new T.MeshStandardMaterial(Object.assign({color:c,roughness:.78,metalness:0},o||{})));}
-function MT(tex,fallback,o){return new T.MeshStandardMaterial(Object.assign({color:tex?0xffffff:fallback,map:tex,roughness:.8},o||{}));}
-function cg(rt,rb,h,seg){seg=seg||14;const k=rt+','+rb+','+h+','+seg;return cgC[k]||(cgC[k]=new T.CylinderGeometry(rt,rb,h,seg));}
-const ball=(m,par,x,y,z,sx,sy,sz)=>mesh(G.sph,m,par,x,y,z,sx,sy,sz);
-const box=(m,par,x,y,z,sx,sy,sz)=>mesh(G.box,m,par,x,y,z,sx,sy,sz);
-function grp(par,x,y,z){const g=new T.Group();g.position.set(x||0,y||0,z||0);if(par)par.add(g);return g;}
-function merge(parts){const pos=[],nor=[],uv=[],m=new T.Matrix4(),q=new T.Quaternion(),e=new T.Euler(),nm=new T.Matrix3(),v=V();
-  for(const p of parts){const g=p.g.index?p.g.toNonIndexed():p.g;const r=p.r||[0,0,0];e.set(r[0],r[1],r[2]);q.setFromEuler(e);const s=p.s===undefined?[1,1,1]:(typeof p.s==='number'?[p.s,p.s,p.s]:p.s);const t=p.p||[0,0,0];
-    m.compose(V(t[0],t[1],t[2]),q,V(s[0],s[1],s[2]));nm.getNormalMatrix(m);const P=g.attributes.position,N=g.attributes.normal,U=g.attributes.uv;
-    for(let i=0;i<P.count;i++){v.fromBufferAttribute(P,i).applyMatrix4(m);pos.push(v.x,v.y,v.z);v.fromBufferAttribute(N,i).applyMatrix3(nm).normalize();nor.push(v.x,v.y,v.z);if(U)uv.push(U.getX(i),U.getY(i));else uv.push(0,0);}}
-  const out=new T.BufferGeometry();out.setAttribute('position',new T.Float32BufferAttribute(pos,3));out.setAttribute('normal',new T.Float32BufferAttribute(nor,3));out.setAttribute('uv',new T.Float32BufferAttribute(uv,2));return out;}
-function flat(key,pts,depth,bev,poly){if(lgC[key])return lgC[key];const sh=new T.Shape();sh.moveTo(pts[0][0],pts[0][1]);if(poly){for(let i=1;i<pts.length;i++)sh.lineTo(pts[i][0],pts[i][1]);sh.closePath();}else sh.splineThru(pts.slice(1).concat([pts[0]]).map(p=>new T.Vector2(p[0],p[1])));
-  const g=new T.ExtrudeGeometry(sh,{depth,bevelEnabled:!!bev,bevelThickness:bev||0,bevelSize:bev||0,bevelSegments:2,curveSegments:10});g.translate(0,0,-depth/2);return lgC[key]=g;}
-function mergeC(parts){const g=merge(parts),col=[];for(const p of parts){const n=p.g.index?p.g.index.count:p.g.attributes.position.count,c=new T.Color(p.c);for(let i=0;i<n;i++)col.push(c.r,c.g,c.b);}g.setAttribute('color',new T.Float32BufferAttribute(col,3));return g;}
 
 // --- audio
 function nloop(type,fr,q){const s=AC.createBufferSource();s.buffer=nbuf;s.loop=true;const f=AC.createBiquadFilter();f.type=type;f.frequency.value=fr;f.Q.value=q;const g=AC.createGain();g.gain.value=0;s.connect(f);f.connect(g);g.connect(sfx);s.start();return {g,f};}

diff --git a/pralnia/index.html b/pralnia/index.html
@@ -91,10 +91,9 @@ html,body{height:100%;margin:0;overflow:hidden;background:var(--sky);touch-actio
 <script src="../lib/ciuchcia-taxi-zniwa-pralnia-arka-rafa.js"></script>
 <script src="../lib/pralnia-arka-rafa.js"></script>
 <script src="../lib/pralnia-arka.js"></script>
-<script src="../models/zwierzeta.pralnia-arka.js"></script>
 <script src="../models/akcesoria.pralnia.js"></script>
 <script src="../models/przyroda.pralnia.js"></script>
-<script src="../models/zwierzeta.pralnia.js"></script>
+<script src="../models/zwierzeta.js"></script>
 <script src="game.js"></script>
 </body>
 </html>

diff --git a/arka/index.html b/arka/index.html
@@ -96,9 +96,8 @@ button:focus-visible{outline:4px solid var(--gold);outline-offset:3px}
 <script src="../lib/arka-rafa.js"></script>
 <script src="../lib/pralnia-arka.js"></script>
 <script src="../models/morze.arka-rafa.js"></script>
-<script src="../models/zwierzeta.pralnia-arka.js"></script>
 <script src="../models/morze.arka.js"></script>
-<script src="../models/zwierzeta.arka.js"></script>
+<script src="../models/zwierzeta.js"></script>
 <script src="game.js"></script>
 </body>
 </html>
